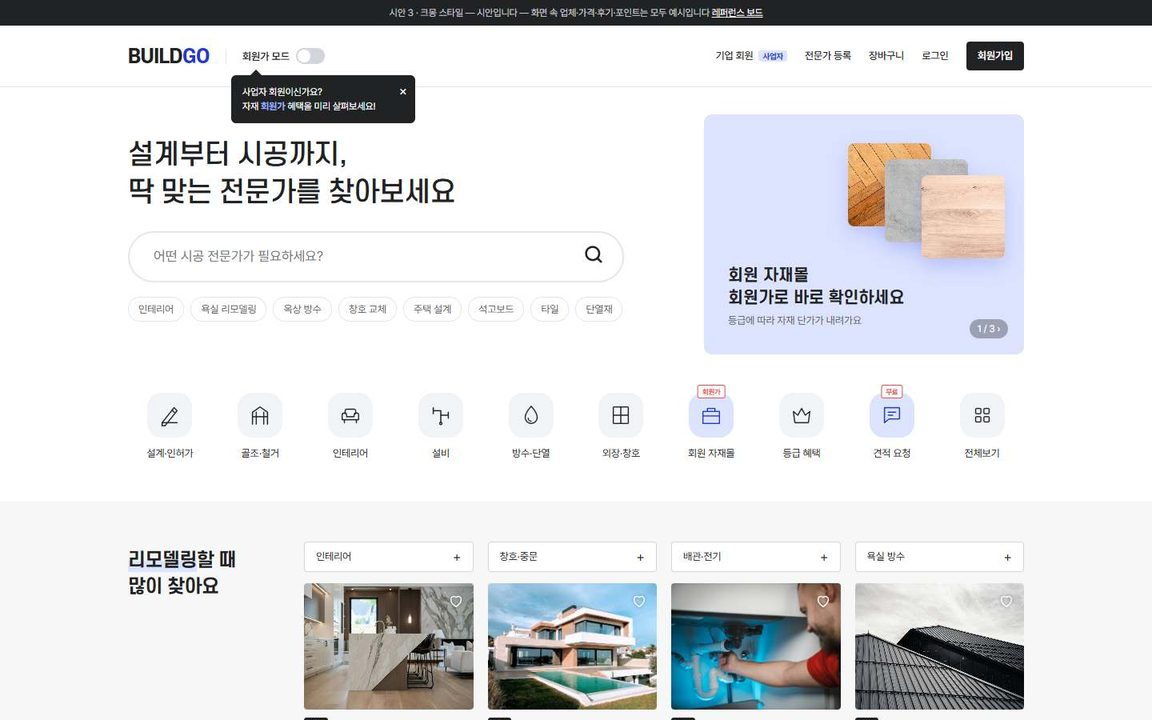
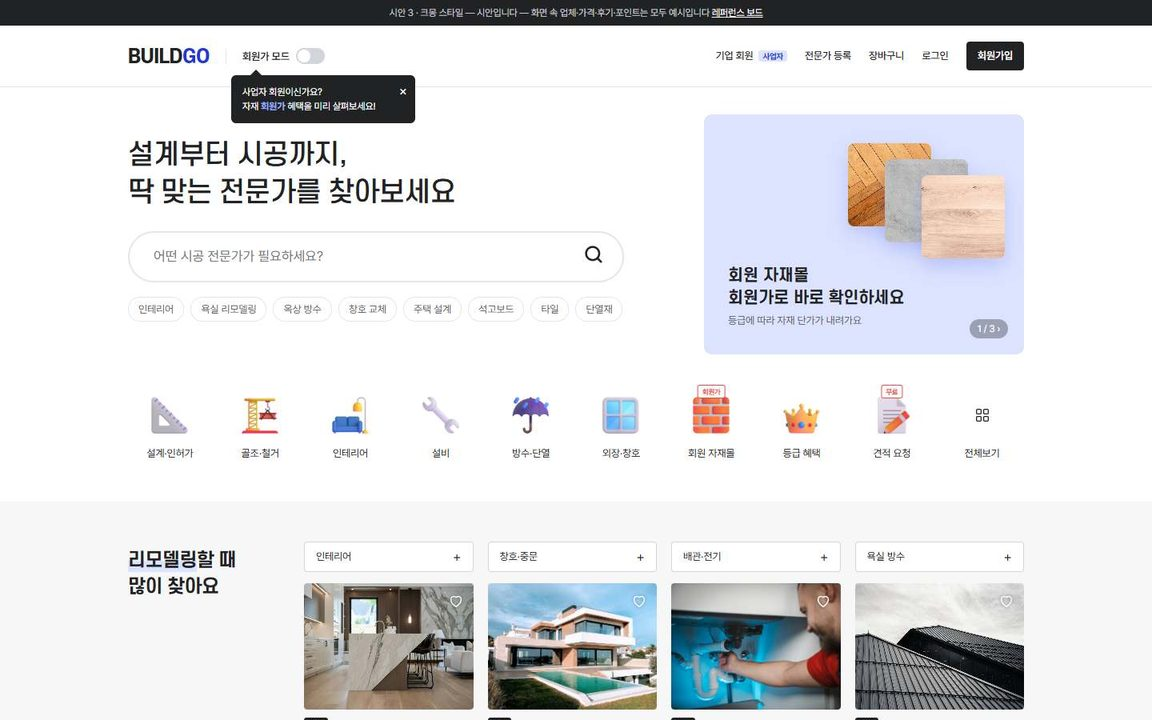
더원파트너스 시안 3개 퀵메뉴를 입체 아이콘 이미지로 교체 — 사진·선 아이콘 대신 한 벌로 맞춘 입체 이미지(무료 라이선스)

diff --git a/drafts/2/app.js b/drafts/2/app.js
@@ -10,16 +10,6 @@
     right: '<svg viewBox="0 0 24 24"><path d="m9 6 6 6-6 6"/></svg>',
     star: '<svg viewBox="0 0 24 24" style="width:13px;height:13px;fill:currentColor;stroke:none"><path d="M12 3l2.6 5.4 5.9.8-4.3 4.1 1 5.8L12 16.3l-5.2 2.8 1-5.8L3.5 9.2l5.9-.8z"/></svg>',
     check: '<svg viewBox="0 0 24 24" style="width:30px;height:30px;stroke-width:2.4"><path d="m5 12.5 4.5 4.5L19 7.5"/></svg>',
-    deal: '<svg viewBox="0 0 24 24"><path d="M13 2 4 14h7l-1 8 9-12h-7z"/></svg>',
-    best: '<svg viewBox="0 0 24 24"><circle cx="12" cy="9" r="6"/><path d="m8.5 14-1.5 8 5-3 5 3-1.5-8"/></svg>',
-    truck: '<svg viewBox="0 0 24 24"><path d="M3 6h11v10H3zM14 9h4l3 3v4h-7"/><circle cx="7" cy="18" r="1.8"/><circle cx="17" cy="18" r="1.8"/></svg>',
-    box: '<svg viewBox="0 0 24 24"><path d="m12 3 8 4.5v9L12 21l-8-4.5v-9z"/><path d="m4 7.5 8 4.5 8-4.5M12 12v9"/></svg>',
-    doc: '<svg viewBox="0 0 24 24"><path d="M6 3h9l4 4v14H6z"/><path d="M9 13h7M9 17h5"/></svg>',
-    crown: '<svg viewBox="0 0 24 24"><path d="m3 8 4.5 4L12 5l4.5 7L21 8l-2 11H5z"/></svg>',
-    photo: '<svg viewBox="0 0 24 24"><rect x="4" y="4" width="16" height="16" rx="2"/><path d="m4 16 5-5 4 4 3-3 4 4"/></svg>',
-    pro: '<svg viewBox="0 0 24 24"><circle cx="12" cy="8" r="3.5"/><path d="M5 20c1-4 4-6 7-6s6 2 7 6"/></svg>',
-    tape: '<svg viewBox="0 0 24 24"><circle cx="10" cy="12" r="6"/><circle cx="10" cy="12" r="2"/><path d="M16 12h5v3"/></svg>',
-    gift: '<svg viewBox="0 0 24 24"><path d="M4 10h16v10H4zM3 7h18v3H3zM12 7v13M12 7c-2-4-6-3-5 0M12 7c2-4 6-3 5 0"/></svg>'
   };
   var SUB = {
     store: [["", "자재몰홈"], ["cat", "카테고리"], ["best", "베스트"], ["deal", "회원특가"], ["today", "당일출고"], ["pkg", "현장패키지"], ["plan", "기획전"]],
@@ -56,7 +46,7 @@
       { img: "hero_site", t: "현장 하나로 묶어\n자재를 한 번에 주문", s: "보드·합판·구조재 대량 주문", href: "#/store?c=pkg", chip: D.materials[1] },
       { img: "cat_waterproof", t: "장마 전에\n옥상 방수 점검", s: "방수 전문가 무료 현장 실측", href: "#/pro/e5" }
     ];
-    var row2 = [["#/store?c=deal", I.deal, "회원특가", "o"], ["#/store?c=best", I.best, "베스트"], ["#/store?c=today", I.truck, "당일출고"], ["#/store?c=pkg", I.box, "현장패키지"], ["#/quote", I.doc, "견적 요청", "o"], ["#/tiers", I.crown, "등급 혜택"], ["#/cases", I.photo, "시공사례"], ["#/pros", I.pro, "전문가 찾기"], ["#/store?c=tool", I.tape, "공구·소모품"], ["#/tiers", I.gift, "추천 적립", "o"]];
+    var row2 = [["#/store?c=deal", "deal", "회원특가"], ["#/store?c=best", "best", "베스트"], ["#/store?c=today", "today", "당일출고"], ["#/store?c=pkg", "pkg", "현장패키지"], ["#/quote", "quote", "견적 요청"], ["#/tiers", "tiers", "등급 혜택"], ["#/cases", "cases", "시공사례"], ["#/pros", "pro", "전문가 찾기"], ["#/store?c=tool", "tool", "공구·소모품"], ["#/tiers", "referral", "추천 적립"]];
     var cards = D.materials.map(mcard);
     cards.splice(3, 0, '<a class="dark-card" href="#/pros"><img loading="lazy" src="' + photo("pf_e3_2") + '" alt=""><div class="dc"><small>시공 맡기기</small><b>인테리어 전문가 견적 비교</b><p>면허·사업자·보험 확인한 전문가</p><span class="go">' + I.right + "</span></div></a>");
     app.innerHTML = '<div class="wrap"><section class="heroes">' + heroes.map(function (h) {
@@ -65,9 +55,9 @@
     }).join("") + "</section>" +
       '<div class="pager pc-only"><div class="track"><i></i></div><button type="button" aria-label="이전">' + I.left + '</button><button type="button" aria-label="다음">' + I.right + "</button></div>" +
       '<section class="sec"><div class="sec-title"><h2>카테고리</h2></div><div class="cats">' +
-      D.materialCategories.map(function (c) { var m = D.materials.filter(function (x) { return x.category === c.id; })[0]; return '<a class="cat" href="#/store?c=' + c.id + '"><img loading="lazy" src="' + photo(m ? m.photo : "mat_m1") + '" alt="">' + esc(c.name) + "</a>"; }).join("") +
-      D.categories.map(function (c) { return '<a class="cat" href="#/cases?c=' + c.id + '"><img loading="lazy" src="' + photo(c.photo) + '" alt="">' + esc(c.name) + "</a>"; }).join("") + "</div>" +
-      '<div class="cat2">' + row2.map(function (x) { return '<a href="' + x[0] + '"><span class="ib' + (x[3] ? " o" : "") + '">' + x[1] + "</span>" + esc(x[2]) + "</a>"; }).join("") + "</div></section>" +
+      D.materialCategories.map(function (c) { return '<a class="cat" href="#/store?c=' + c.id + '"><img src="' + BG.icon("mat-" + c.id) + '" alt="">' + esc(c.name) + "</a>"; }).join("") +
+      D.categories.map(function (c) { return '<a class="cat" href="#/cases?c=' + c.id + '"><img src="' + BG.icon(c.id) + '" alt="">' + esc(c.name) + "</a>"; }).join("") + "</div>" +
+      '<div class="cat2">' + row2.map(function (x) { return '<a href="' + x[0] + '"><span class="ib"><img src="' + BG.icon(x[1]) + '" alt=""></span>' + esc(x[2]) + "</a>"; }).join("") + "</div></section>" +
       '<section class="sec"><div class="sec-title"><h2>추천 자재</h2><a href="#/store">더보기</a></div><div class="grid4">' + cards.join("") + "</div></section></div>";
   }
 

diff --git a/drafts/3/app.js b/drafts/3/app.js
@@ -10,15 +10,6 @@
     chev: '<svg viewBox="0 0 24 24" style="width:12px;height:12px"><path d="m9 6 6 6-6 6"/></svg>'
   };
   var CAT_ICON = {
-    design: '<svg viewBox="0 0 32 32"><path d="M6 26 22 6l4 4L10 30H6z"/><path d="M19 9l4 4M6 26h20"/></svg>',
-    frame: '<svg viewBox="0 0 32 32"><path d="M6 28V12l10-7 10 7v16"/><path d="M6 18h20M11 12v16M21 12v16"/></svg>',
-    interior: '<svg viewBox="0 0 32 32"><path d="M5 22v-6a3 3 0 0 1 6 0v2h10v-2a3 3 0 0 1 6 0v6z"/><path d="M8 22v4M24 22v4M9 14V10a2 2 0 0 1 2-2h10a2 2 0 0 1 2 2v4"/></svg>',
-    mep: '<svg viewBox="0 0 32 32"><path d="M6 10h10v6h10"/><path d="M26 12v8M6 6v8M16 16v10"/><circle cx="16" cy="27" r="1.5"/></svg>',
-    waterproof: '<svg viewBox="0 0 32 32"><path d="M16 4s8 9 8 15a8 8 0 0 1-16 0c0-6 8-15 8-15z"/><path d="M12 20a4 4 0 0 0 4 4"/></svg>',
-    exterior: '<svg viewBox="0 0 32 32"><rect x="6" y="5" width="20" height="22" rx="1"/><path d="M16 5v22M6 16h20"/></svg>',
-    mall: '<svg viewBox="0 0 32 32"><path d="M5 11h22v16H5zM11 11V7h10v4"/><path d="M5 17h22"/></svg>',
-    tiers: '<svg viewBox="0 0 32 32"><path d="m5 11 6 5 5-9 5 9 6-5-2 15H7z"/></svg>',
-    request: '<svg viewBox="0 0 32 32"><path d="M6 6h20v15H12l-6 5z"/><path d="M11 12h10M11 16h6"/></svg>',
     all: '<svg viewBox="0 0 32 32"><rect x="7" y="7" width="7" height="7" rx="1.5"/><rect x="18" y="7" width="7" height="7" rx="1.5"/><rect x="7" y="18" width="7" height="7" rx="1.5"/><rect x="18" y="18" width="7" height="7" rx="1.5"/></svg>'
   };
 
@@ -49,10 +40,10 @@
       { t: "<mark>집 짓기</mark> 시작할 때<br>많이 찾아요", cols: [["설계·인허가", D.experts[0]], ["골조·철거", D.experts[1]], ["방수·단열", D.experts[4]], ["외장·창호", D.experts[5]]] }
     ];
     var matsBand = { t: "<mark>현장 소장님</mark>이<br>많이 찾아요", cols: [["보드·합판", BG.MAT.m1], ["구조재·철물", BG.MAT.m3], ["단열·지붕", BG.MAT.m8], ["타일·바닥재", BG.MAT.m5]] };
-    var cats = D.categories.map(function (c) { return '<a href="#/category?c=' + c.id + '"><span class="ci">' + CAT_ICON[c.id] + "</span>" + esc(c.name) + "</a>"; }).join("") +
-      '<a href="#/mall"><span class="bd">회원가</span><span class="ci b">' + CAT_ICON.mall + "</span>회원 자재몰</a>" +
-      '<a href="#/tiers"><span class="ci">' + CAT_ICON.tiers + "</span>등급 혜택</a>" +
-      '<a href="#/request"><span class="bd">무료</span><span class="ci b">' + CAT_ICON.request + "</span>견적 요청</a>" +
+    var cats = D.categories.map(function (c) { return '<a href="#/category?c=' + c.id + '"><span class="ci"><img src="' + BG.icon(c.id) + '" alt="">' + "</span>" + esc(c.name) + "</a>"; }).join("") +
+      '<a href="#/mall"><span class="bd">회원가</span><span class="ci"><img src="' + BG.icon("mall") + '" alt="">' + "</span>회원 자재몰</a>" +
+      '<a href="#/tiers"><span class="ci"><img src="' + BG.icon("tiers") + '" alt="">' + "</span>등급 혜택</a>" +
+      '<a href="#/request"><span class="bd">무료</span><span class="ci"><img src="' + BG.icon("quote") + '" alt="">' + "</span>견적 요청</a>" +
       '<a href="#/category"><span class="ci">' + CAT_ICON.all + "</span>전체보기</a>";
     var verified = D.experts.filter(function (e) { return e.rating >= 4.8; });
     app.innerHTML = '<div class="wrap"><section class="hero"><div><h1>설계부터 시공까지,<br>딱 맞는 전문가를 찾아보세요</h1>' +

diff --git a/drafts/1/app.js b/drafts/1/app.js
@@ -10,9 +10,6 @@
     { img: "cat_exterior", title: "창호·중문 교체\n실측부터 설치까지", sub: "창호 자재는 회원 등급가로\n시공은 견적 비교로" }
   ];
   var ICON = {
-    quote: '<svg viewBox="0 0 48 48"><path d="M12 6h17l7 7v29H12z"/><path d="M28 6v8h8M18 24h12M18 31h8"/></svg>',
-    cases: '<svg viewBox="0 0 48 48"><path d="M8 22 24 9l16 13v18H8z"/><rect x="15" y="25" width="9" height="8"/><path d="M28 40V28h6v12"/></svg>',
-    mall: '<svg viewBox="0 0 48 48"><path d="M8 16h32v24H8zM16 16v-5h16v5"/><path d="M8 25h32"/></svg>',
     check: '<svg viewBox="0 0 24 24"><path d="m5 12.5 4.5 4.5L19 7.5"/></svg>',
     heart: '<svg viewBox="0 0 24 24"><path d="M12 20s-7-4.4-7-10a4 4 0 0 1 7-2.6A4 4 0 0 1 19 10c0 5.6-7 10-7 10z"/></svg>',
     home: '<svg viewBox="0 0 24 24"><path d="M4 11 12 4l8 7v9H4z"/></svg>',
@@ -55,10 +52,10 @@
     document.body.classList.add("on-hero");
     var slides = HERO.map(function (h, i) { return '<div class="slide' + (i === 0 ? " on" : "") + '"><img src="' + photo(h.img) + '" alt=""></div>'; }).join("");
     var tiles = '<a class="tile" href="#/tiers"><span class="tbox brand">BUILDGO<br>회원가</span>회원 등급<br>혜택보기</a>' +
-      D.categories.map(function (c) { return '<a class="tile" href="#/experts?cat=' + c.id + '"><span class="tbox"><img loading="lazy" src="' + photo(c.photo) + '" alt=""></span>' + esc(c.name) + "</a>"; }).join("") +
-      '<a class="tile" href="#/quote"><span class="tbox">' + ICON.quote + "</span>무료 견적상담</a>" +
-      '<a class="tile" href="#/cases"><span class="tbox">' + ICON.cases + "</span>시공사례</a>" +
-      '<a class="tile" href="#/mall"><span class="tbox">' + ICON.mall + "</span>회원 자재몰</a>";
+      D.categories.map(function (c) { return '<a class="tile" href="#/experts?cat=' + c.id + '"><span class="tbox"><img class="ic" src="' + BG.icon(c.id) + '" alt=""></span>' + esc(c.name) + "</a>"; }).join("") +
+      '<a class="tile" href="#/quote"><span class="tbox"><img class="ic" src="' + BG.icon("quote") + '" alt=""></span>무료 견적상담</a>' +
+      '<a class="tile" href="#/cases"><span class="tbox"><img class="ic" src="' + BG.icon("cases") + '" alt=""></span>시공사례</a>' +
+      '<a class="tile" href="#/mall"><span class="tbox"><img class="ic" src="' + BG.icon("mall") + '" alt=""></span>회원 자재몰</a>';
     app.innerHTML =
       '<section class="hero" id="hero">' + slides +
       '<div class="hero-copy"><div class="wrap"><h1 id="heroTitle">' + esc(HERO[0].title) + '</h1><p id="heroSub">' + esc(HERO[0].sub) + "</p></div></div>" +

diff --git a/drafts/3/style.css b/drafts/3/style.css
@@ -68,9 +68,10 @@ body.sub .gnb { display: flex; }
 
 .cats { display: grid; grid-template-columns: repeat(10, 1fr); gap: 8px; padding: 38px 0 50px; text-align: center; }
 .cats a { position: relative; display: flex; flex-direction: column; align-items: center; gap: 10px; font-size: 13px; }
-.cats .ci { width: 56px; height: 56px; border-radius: 18px; background: #F2F3F7; display: flex; align-items: center; justify-content: center; color: var(--ink); }
-.cats .ci svg { width: 30px; height: 30px; stroke-width: 1.5; }
-.cats .ci.b { background: var(--hl); color: var(--blue); }
+.cats .ci { width: 56px; height: 56px; display: flex; align-items: center; justify-content: center; color: var(--ink); }
+.cats .ci img { width: 52px; height: 52px; object-fit: contain; transition: transform .25s ease; }
+.cats a:hover .ci img { transform: translateY(-3px); }
+.cats .ci svg { width: 26px; height: 26px; stroke-width: 1.6; }
 .cats .bd { white-space: nowrap; position: absolute; top: -10px; left: 50%; transform: translateX(-50%); padding: 0 5px; border: 1px solid #F04A4A; border-radius: 3px; background: #fff; color: #F04A4A; font-size: 9px; font-weight: 700; line-height: 15px; }
 
 .band { background: var(--band); padding: 50px 0; }
@@ -267,7 +268,8 @@ body.sub .gnb { display: flex; }
   .kw a { flex: none; }
   .cats { grid-template-columns: repeat(5, 1fr); gap: 18px 4px; padding: 28px 0 34px; }
   .cats a { font-size: 11.5px; }
-  .cats .ci { width: 48px; height: 48px; border-radius: 15px; }
+  .cats .ci { width: 48px; height: 48px; }
+  .cats .ci img { width: 46px; height: 46px; }
   .band { padding: 34px 0; }
   .brow { grid-template-columns: 1fr; padding-top: 36px; gap: 12px; }
   .brow h2 { font-size: 20px; }

diff --git a/drafts/assets/core.js b/drafts/assets/core.js
@@ -18,6 +18,12 @@
   function won(n) { return Math.round(n).toLocaleString("ko-KR"); }
   function man(n) { if (n == null) return "현장 견적"; if (n === 0) return "무료"; return n >= 10000 ? (n / 10000).toLocaleString("ko-KR") + "만원" : won(n) + "원"; }
   function photo(key) { return P[key] ? P[key].src : ""; }
+  var ICON_FILES = {
+    design: "triangular_ruler", frame: "building_construction", interior: "couch_and_lamp", mep: "wrench", waterproof: "umbrella_with_rain_drops", exterior: "window",
+    "mat-struct": "nut_and_bolt", "mat-board": "wood", "mat-finish": "brick", "mat-insul": "house", "mat-window": "door", "mat-tool": "toolbox",
+    mall: "brick", quote: "memo", cases: "framed_picture", tiers: "crown", deal: "fire", best: "trophy", today: "delivery_truck", pkg: "package", pro: "magnifying_glass_tilted_left", tool: "hammer", referral: "coin"
+  };
+  function icon(key) { return ICON_FILES[key] ? "../assets/icons/" + ICON_FILES[key] + ".png" : ""; }
   function store(key, val) {
     try {
       if (val === undefined) { var v = localStorage.getItem(key); return v ? JSON.parse(v) : null; }
@@ -101,8 +107,8 @@
 
   window.BG = {
     data: D, CAT: CAT, MAT_CAT: MAT_CAT, EXP: EXP, MAT: MAT,
-    esc: esc, won: won, man: man, photo: photo, Session: Session,
+    esc: esc, won: won, man: man, photo: photo, icon: icon, Session: Session,
     router: router, parseHash: parseHash, toast: toast, reduced: reduced, initial: initial,
-    credit: window.BGPhotosCredit || ""
+    credit: (window.BGPhotosCredit || "") + " · 입체 아이콘: Microsoft Fluent Emoji (MIT 라이선스)"
   };
 })();

diff --git a/drafts/2/style.css b/drafts/2/style.css
@@ -75,11 +75,12 @@ svg { width: 24px; height: 24px; fill: none; stroke: currentColor; stroke-width:
 .sec-title a { font-size: 14px; font-weight: 600; color: var(--blue); }
 .cats { display: grid; grid-template-columns: repeat(12, 1fr); gap: 8px; text-align: center; }
 .cat { display: flex; flex-direction: column; align-items: center; gap: 8px; font-size: 13px; }
-.cat img { width: 64px; height: 64px; border-radius: 14px; object-fit: cover; }
+.cat img { width: 64px; height: 64px; object-fit: contain; transition: transform .25s ease; }
+.cat:hover img, .cat2 a:hover .ib img { transform: translateY(-2px); }
 .cat2 { display: grid; grid-template-columns: repeat(10, 1fr); gap: 8px; margin-top: 26px; text-align: center; }
 .cat2 a { display: flex; flex-direction: column; align-items: center; gap: 8px; font-size: 13px; }
-.cat2 .ib { width: 52px; height: 52px; border-radius: 16px; background: var(--blue-weak); color: var(--blue); display: flex; align-items: center; justify-content: center; }
-.cat2 .ib.o { background: #FFF1E8; color: var(--orange); }
+.cat2 .ib { width: 52px; height: 52px; border-radius: 16px; background: #F7F8FA; display: flex; align-items: center; justify-content: center; }
+.cat2 .ib img { width: 36px; height: 36px; object-fit: contain; transition: transform .25s ease; }
 
 .grid4 { display: grid; grid-template-columns: repeat(4, 1fr); gap: 32px 20px; }
 .card { position: relative; display: block; }

diff --git a/drafts/1/style.css b/drafts/1/style.css
@@ -66,7 +66,7 @@ body.on-hero.scrolled .hd-search input::placeholder { color: #9A9A9A; }
 .tile .tbox { width: 100%; aspect-ratio: 1; overflow: hidden; background: var(--bg2); display: flex; align-items: center; justify-content: center; }
 .tile .tbox img { width: 100%; height: 100%; object-fit: cover; transition: transform .5s ease; }
 .tile:hover .tbox img { transform: scale(1.04); }
-.tile .tbox svg { width: 44px; height: 44px; stroke-width: 1.3; }
+.tile .tbox img.ic { width: 60%; height: 60%; object-fit: contain; }
 .tile .tbox.brand { background: var(--blue); color: #fff; font-family: var(--font-point); font-weight: 700; font-size: 17px; line-height: 1.25; padding: 10px; }
 
 .sec { padding: 76px 0 0; }
@@ -271,7 +271,6 @@ body.on-hero.scrolled .hd-search input::placeholder { color: #9A9A9A; }
   .hero-ctl { bottom: 14px; }
   .tiles { grid-template-columns: repeat(5, 1fr); gap: 14px 8px; padding: 34px 0 0; }
   .tile { font-size: 11.5px; gap: 6px; }
-  .tile .tbox svg { width: 30px; height: 30px; }
   .tile .tbox.brand { font-size: 12px; padding: 6px; }
   .sec { padding-top: 54px; }
   .sec-head { text-align: left; margin-bottom: 18px; }
